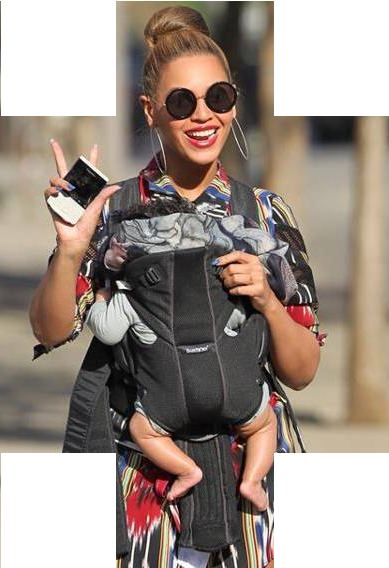
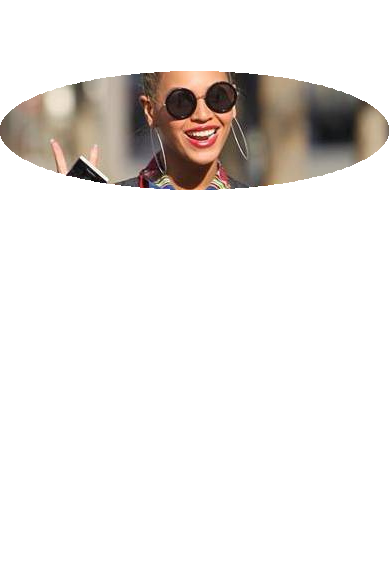
Successfully made and placed ellipse in designated location

diff --git a/mask.py b/mask.py
@@ -54,48 +54,17 @@ def round_corners_one_image(original_image, percent_of_side=.3):
 
 
 def something_one_image(original_image, percent_of_side=.3):
-    """ Rounds the corner of a PIL.Image
-
-    original_image must be a PIL.Image
-    Returns a new PIL.Image with rounded corners, where
-    0 < percent_of_side < 1
-    is the corner radius as a portion of the shorter dimension of original_image
-    """
-    # set the radius of the rounded corners
-    width, height = original_image.size
-    radius = int(percent_of_side * min(width, height))  # radius in pixels
-
-    ###
-    # create a mask
-    ###
 
     # start with transparent mask
+    width,height = original_image.size
     rounded_mask = PIL.Image.new('RGBA', (width, height), (127, 0, 127, 0))
     drawing_layer = PIL.ImageDraw.Draw(rounded_mask)
 
-    # Overwrite the RGBA values with A=255.
-    # The 127 for RGB values was used merely for visualizing the mask
-
-    # Draw two rectangles to fill interior with opaqueness
-    drawing_layer.polygon([(radius, 0), (width - radius, 0),
-                           (width - radius, height), (radius, height)],
-                          fill=(127, 0, 127, 255))
-    drawing_layer.polygon([(0, radius), (width, radius),
-                           (width, height - radius), (0, height - radius)],
-                          fill=(127, 0, 127, 255))
-
     # Draw four filled circles of opaqueness
-    drawing_layer.ellipse((0, 0, 0, 2 * radius),
-                          fill=(0, 127, 127, 255))  # top left
-    drawing_layer.ellipse((width - 2 * radius, 0, 0, 2 * radius),
-                          fill=(0, 127, 127, 255))  # top right
-    drawing_layer.ellipse((0, height - 2 * radius, 0, height),
-                          fill=(0, 127, 127, 255))  # bottom left
-    drawing_layer.ellipse((width - 2 * radius, height - 2 * radius, 0, height),
-                          fill=(0, 127, 127, 255))  # bottom right
+    drawing_layer.ellipse((0, height/8, width, height/3), fill=(0, 127, 127, 255))  #makes the circle at the
 
     # Uncomment the following line to show the mask
-    # plt.imshow(rounded_mask)
+    #plt.imshow(rounded_mask)
 
     # Make the new image, starting with all transparent
     result = PIL.Image.new('RGBA', original_image.size, (0, 0, 0, 0))
